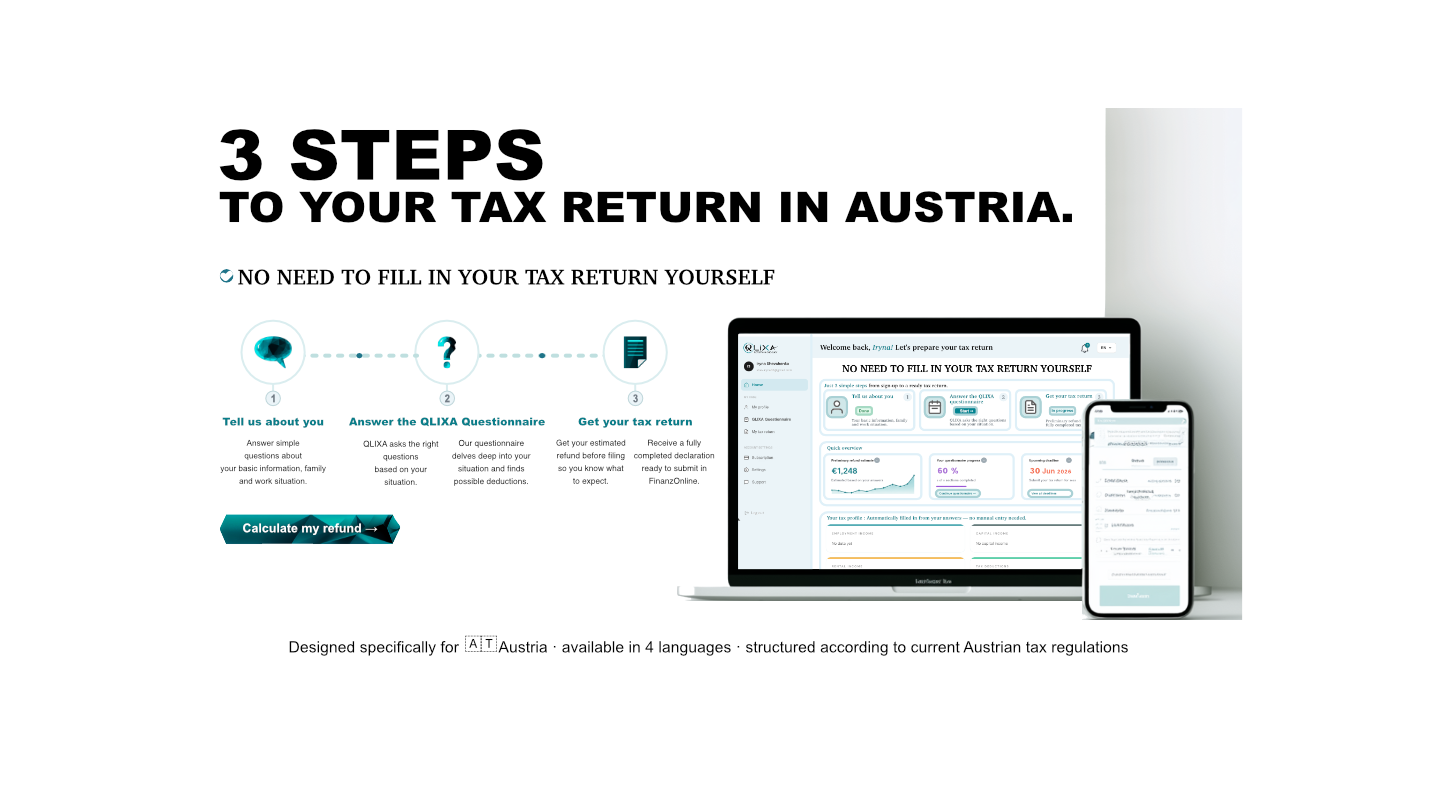
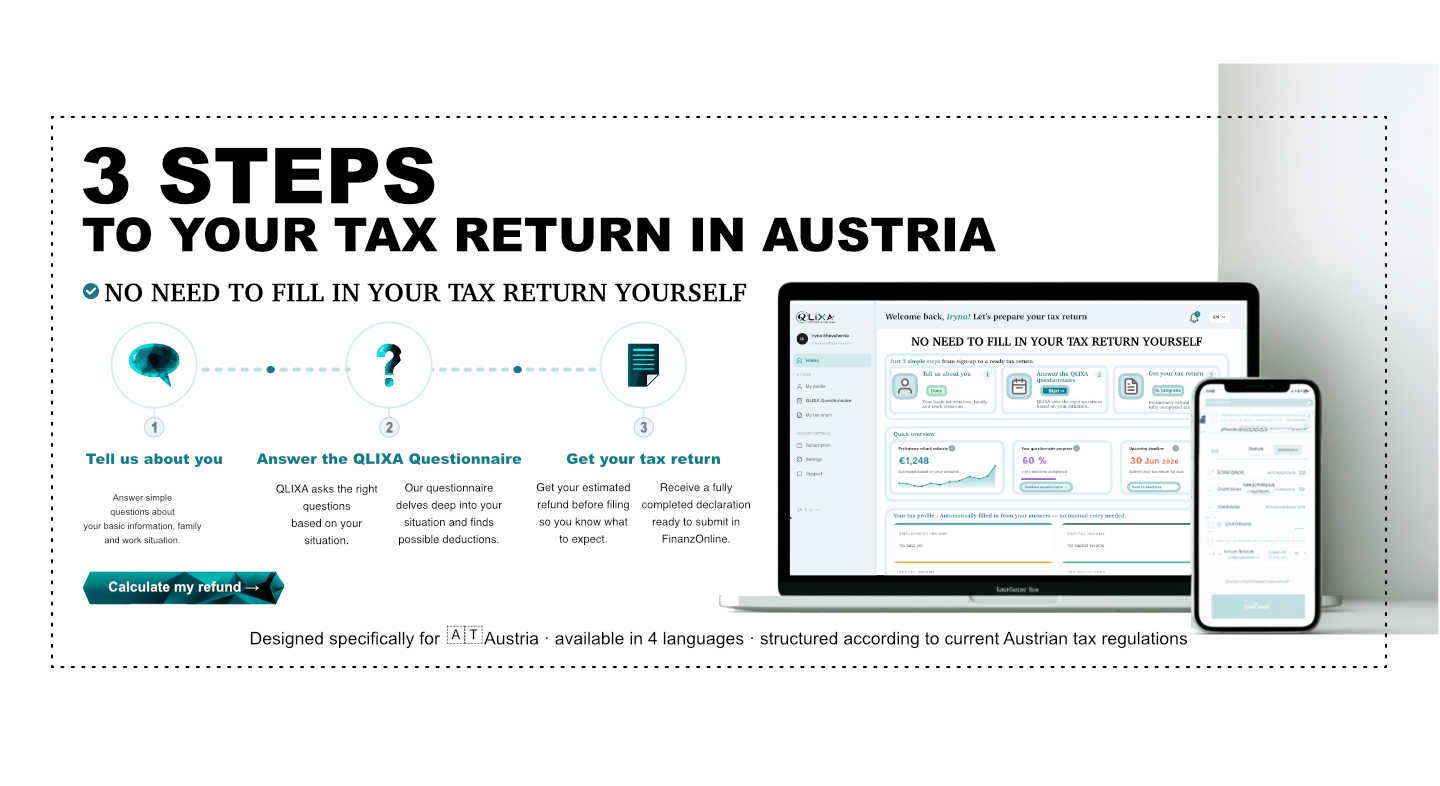
hero

Changed region(s): [[0.0312, 0.0611, 1.0, 0.855], [0.0938, 0.4275, 0.125, 0.4885], [0.0938, 0.5191, 0.125, 0.5496]]

diff --git a/src/app/page.tsx b/src/app/page.tsx
@@ -1053,22 +1053,84 @@ export default function HomePage() {
       )}
 
       {/* ── HERO ── */}
-      {/* Hero's aspect-ratio is locked to hero_laptop.png's own native ratio
-          (1444×790 ≈ 1.828:1) instead of a fixed calc(100vh-114px) height. Text is
-          positioned in PERCENT (not px), so at ANY window width the text stays
-          aligned with the background image's icon/button graphics — px-based
-          positioning broke on window sizes other than the one it was calibrated
-          against. Font-sizes below are converted from Iryna's exact pt values
-          (measured in her design file) via 1pt = 1.3333px, then expressed as vw
-          relative to the 1440px canvas the pt values were measured against. */}
-      <section style={{
-        backgroundColor: '#FFFFFF',
-        backgroundImage: 'url(/hero/hero_laptop.png)',
-        backgroundSize: 'cover',
-        backgroundPosition: 'center',
-        backgroundRepeat: 'no-repeat' as const,
-        height: 'calc(100vh - 114px)',
-      }} />
+      {/* Uses the EXACT SAME container pattern as every other section on the site
+          (section padding: '... clamp(20px,6vw,80px) ...' + inner div
+          maxWidth:1200 centered) instead of a fixed 1440px pixel canvas. This is
+          what makes Hero's left/right edges track the "What is QLIXA" cards'
+          edges at ANY zoom level or window width — a fixed-px canvas could never
+          do this, since it doesn't participate in the site's responsive scaling.
+          All positions are PERCENTAGES of this 1200px logical container, rebased
+          from the original SVG design (which had an 80px margin) so that 0% now
+          lines up with card 1's left edge and 100% lines up with card 3's right
+          edge in the "Що таке QLIXA" section. */}
+      <section style={{ background: '#FFFFFF', padding: '32px clamp(20px,6vw,80px) 0', position: 'relative' as const, height: 'calc(100vh - 114px)', overflow: 'hidden', boxSizing: 'border-box' as const }}>
+        <div style={{ maxWidth: 1200, margin: '0 auto', height: '100%', position: 'relative' as const }}>
+
+          {/* Laptop + phone mockup — right edge capped at 100% (card 3's right edge) */}
+          {/* eslint-disable-next-line @next/next/no-img-element */}
+          <img
+            src="/hero/laptop_hero_only.png"
+            alt=""
+            style={{ position: 'absolute' as const, left: '49.84%', top: '4.6%', width: '50.16%', height: '76.3%', objectFit: 'contain' as const, objectPosition: 'left top' as const }}
+          />
+
+          <div style={{ position: 'absolute' as const, left: '0%', top: '16.4%', fontFamily: 'Arial Black, Arial, sans-serif', fontWeight: 900, fontSize: 'clamp(28px,5.4vw,70px)', lineHeight: 1, color: '#1A1A1A', whiteSpace: 'nowrap' as const }}>
+            3 STEPS
+          </div>
+          <div style={{ position: 'absolute' as const, left: '0.16%', top: '28.9%', fontFamily: 'Arial Black, Arial, sans-serif', fontWeight: 900, fontSize: 'clamp(17px,3.27vw,42px)', lineHeight: 1, color: '#1A1A1A', whiteSpace: 'nowrap' as const }}>
+            TO YOUR TAX RETURN IN AUSTRIA.
+          </div>
+
+          <div style={{ position: 'absolute' as const, left: '0%', top: '36.6%', width: 16, height: 16, borderRadius: '50%', background: '#1F7489' }} />
+          <div style={{ position: 'absolute' as const, left: '1.88%', top: '36.6%', fontFamily: 'Charter, Georgia, serif', fontWeight: 700, fontSize: 'clamp(10px,1.83vw,24px)', color: '#1A1A1A', whiteSpace: 'nowrap' as const }}>
+            NO NEED TO FILL IN YOUR TAX RETURN YOURSELF
+          </div>
+
+          <div style={{ position: 'absolute' as const, left: '9.9%', top: '46%', width: '10.8%', height: 0, borderTop: '2px dashed #BFDFDF' }} />
+          <div style={{ position: 'absolute' as const, left: '28.2%', top: '46%', width: '10.8%', height: 0, borderTop: '2px dashed #BFDFDF' }} />
+
+          {[
+            { cxPct: 5.78, icon: '/hero/icons/step1-speech.png', titleLeftPct: 0, titleWidthPct: 14.84, title: 'Tell us about you',
+              desc: ['Answer simple', 'questions about your', 'basic information, family', 'and work situation.'] },
+            { cxPct: 24.14, icon: '/hero/icons/step2-question.png', titleLeftPct: 14.84, titleWidthPct: 25.39, title: 'Answer the QLIXA Questionnaire',
+              desc: ['QLIXA asks the right', 'questions based on your', 'situation.'] },
+            { cxPct: 43.98, icon: '/hero/icons/step3-document.png', titleLeftPct: 37.5, titleWidthPct: 14.84, title: 'Get your tax return',
+              desc: ['Get your estimated', 'refund before filing', 'so you know what', 'to expect.'] },
+          ].map((step, i) => (
+            <React.Fragment key={i}>
+              <div style={{ position: 'absolute' as const, left: `${step.cxPct}%`, top: '41%', width: 'clamp(50px,6vw,86px)', height: 'clamp(50px,6vw,86px)', transform: 'translateX(-50%)', borderRadius: '50%', background: '#fff', border: '1px solid #DAEDEF', boxShadow: '0 2px 8px rgba(0,0,0,0.05)' }} />
+              {/* eslint-disable-next-line @next/next/no-img-element */}
+              <img src={step.icon} alt="" style={{ position: 'absolute' as const, left: `${step.cxPct}%`, top: '43.8%', width: 'clamp(30px,3.6vw,52px)', transform: 'translateX(-50%)', objectFit: 'contain' as const }} />
+              <div style={{ position: 'absolute' as const, left: `${step.cxPct}%`, top: '53%', width: 20, height: 20, transform: 'translateX(-50%)', borderRadius: '50%', border: '1px solid #BFDFDF', background: '#fff', display: 'flex', alignItems: 'center', justifyContent: 'center' as const, fontSize: 12, fontWeight: 700, color: '#595959' }}>
+                {i + 1}
+              </div>
+              <div style={{ position: 'absolute' as const, left: `${step.titleLeftPct}%`, top: '57.5%', width: `${step.titleWidthPct}%`, textAlign: 'center' as const, fontFamily: 'Arial Black, Arial, sans-serif', fontWeight: 900, fontSize: 'clamp(10px,1.03vw,15px)', color: '#09877A', lineHeight: 1.2 }}>
+                {step.title}
+              </div>
+              <div style={{ position: 'absolute' as const, left: `${step.titleLeftPct}%`, top: '62%', width: `${step.titleWidthPct}%`, textAlign: 'center' as const, fontFamily: 'Arial, sans-serif', fontSize: 'clamp(8px,0.78vw,11px)', color: '#404040', lineHeight: 1.35 }}>
+                {step.desc.map((line, j) => <div key={j}>{line}</div>)}
+              </div>
+            </React.Fragment>
+          ))}
+
+          <Link
+            href={t.cards[0].href}
+            style={{
+              position: 'absolute' as const, left: '0.23%', top: '72%', width: '15.78%', minWidth: 150, aspectRatio: '202 / 34',
+              display: 'flex', alignItems: 'center', justifyContent: 'center' as const,
+              backgroundImage: 'url(/hero/hero_button.png)', backgroundSize: '100% 100%', backgroundRepeat: 'no-repeat' as const,
+              fontFamily: 'Arial, sans-serif', fontSize: 'clamp(11px,1.08vw,14px)', fontWeight: 700, color: '#fff', textDecoration: 'none',
+            }}
+          >
+            {t.cards[0].cta}
+          </Link>
+
+          <div style={{ position: 'absolute' as const, left: 0, right: 0, top: '81%', textAlign: 'center' as const, fontFamily: 'Arial, sans-serif', fontSize: 'clamp(11px,1.38vw,17px)', color: '#404040', whiteSpace: 'nowrap' as const }}>
+            {t.trust}
+          </div>
+
+        </div>
+      </section>
       {/* ── END HERO2 ── */}
 
       {/* ── TICKER — premium minimal, icon + text, 4 languages ── */}
